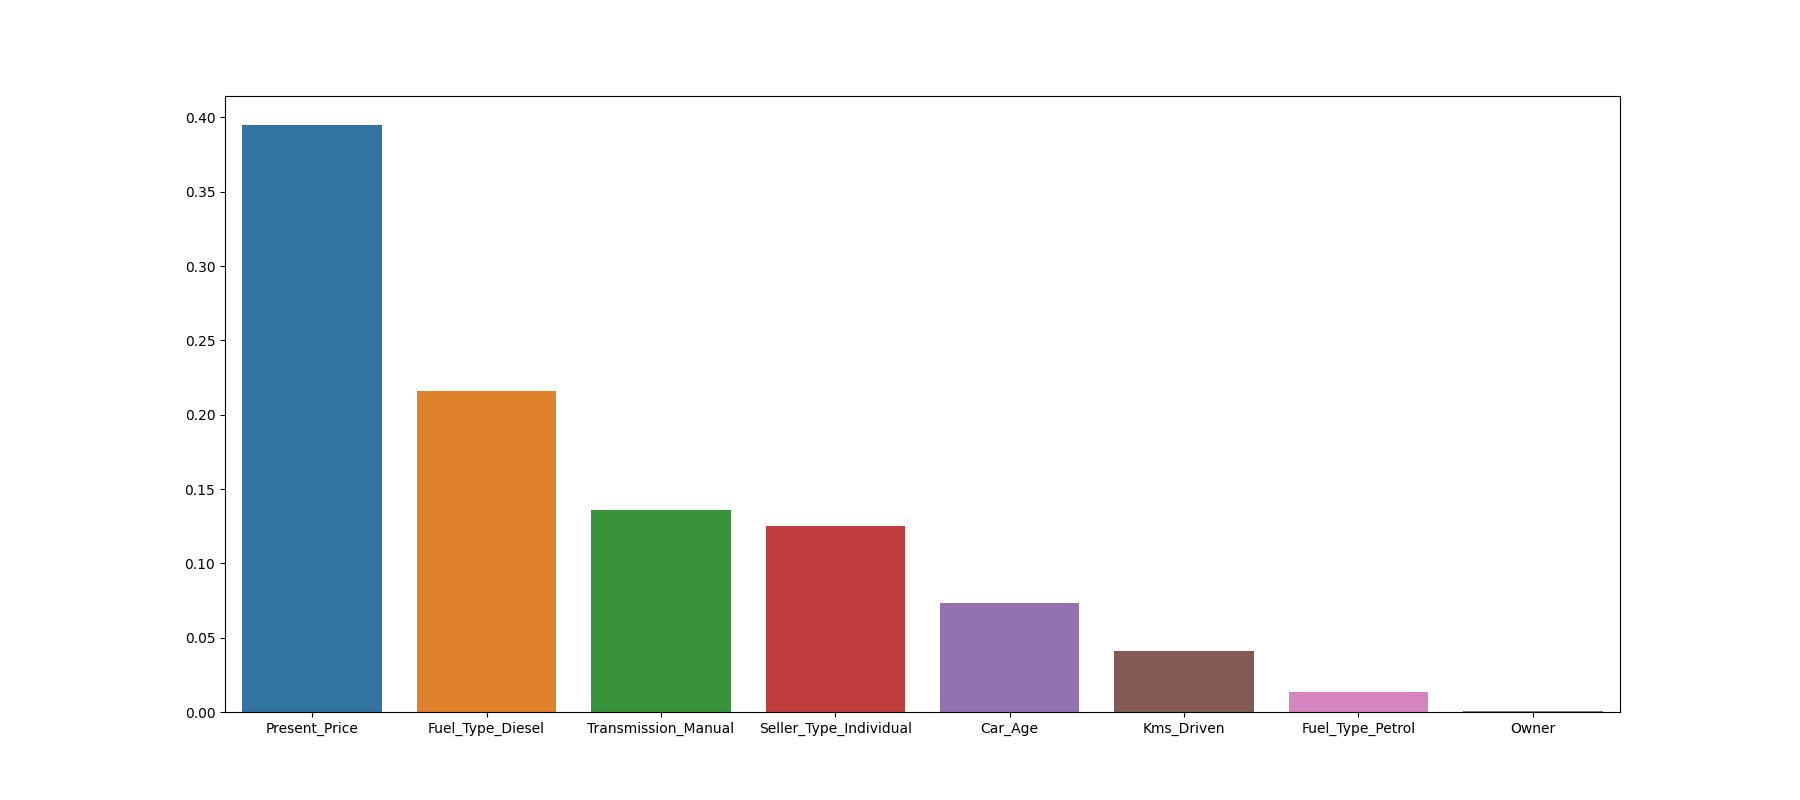
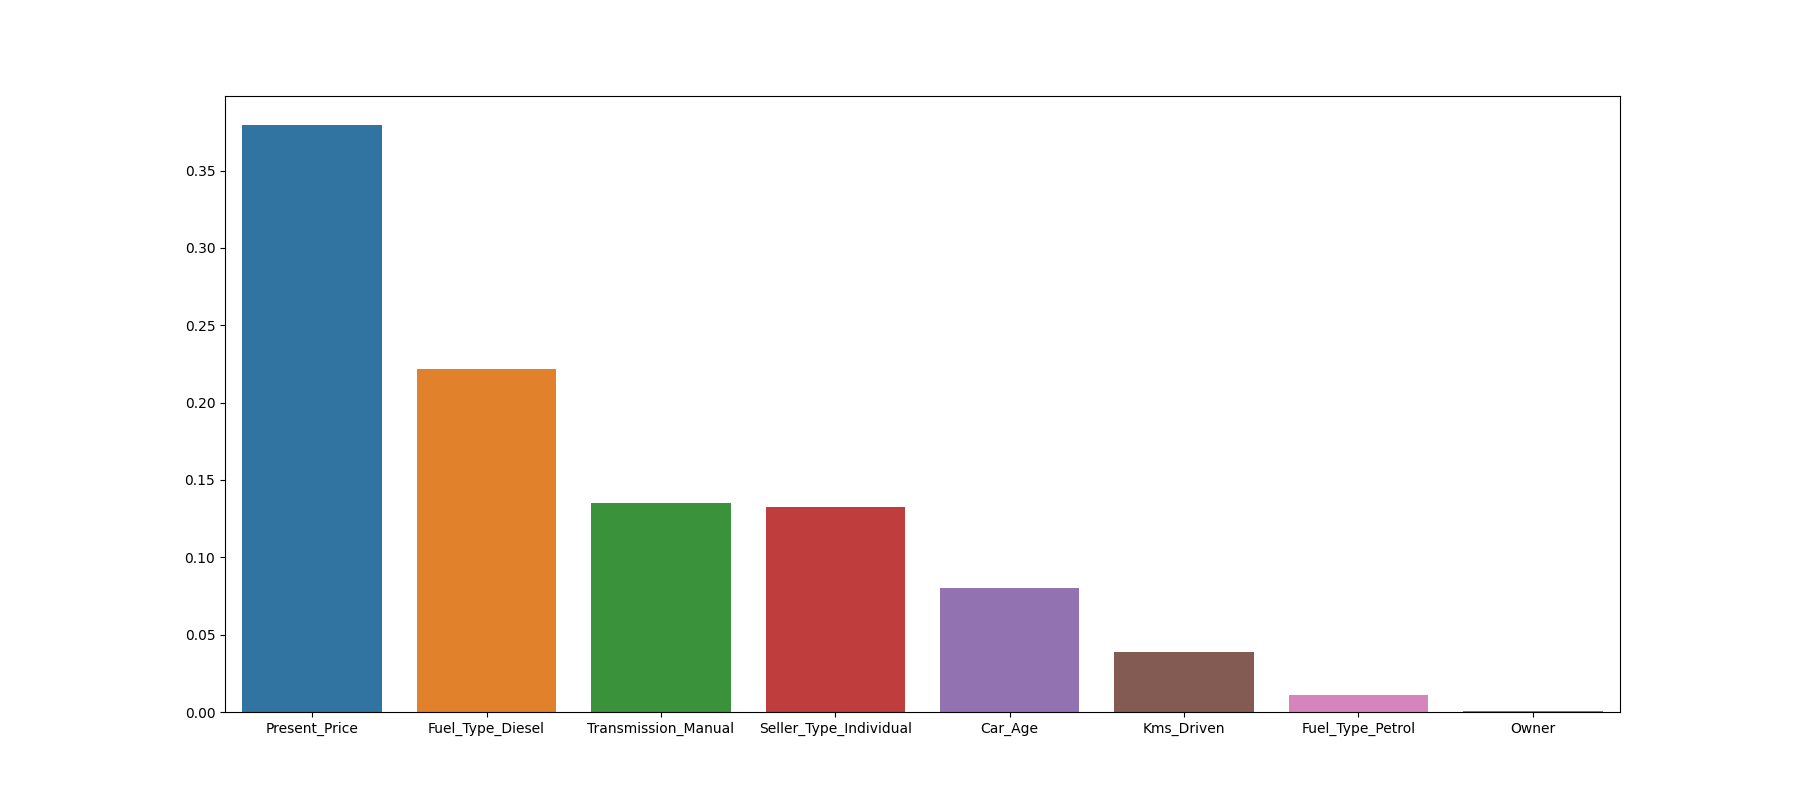
linear fit and r2 error

diff --git a/sample/machine_learning.py b/sample/machine_learning.py
@@ -1,4 +1,6 @@
 from sklearn.model_selection import train_test_split
+from sklearn.linear_model import LinearRegression
+from sklearn.metrics import r2_score
 
 
 def split_test_and_train(x, y):
@@ -7,3 +9,12 @@ def split_test_and_train(x, y):
 
     return {"X_train": X_train, "X_test": X_test,
             "y_train": y_train, "y_test": y_test}
+
+
+def linear_fit(model_sets):
+    reg = LinearRegression()
+    reg.fit(model_sets['X_train'], model_sets['y_train'])
+    y_pred = reg.predict(model_sets['X_test'])
+
+    rsqrd = r2_score(model_sets['y_test'], y_pred)
+    print(f'R2 Error: {rsqrd}')

diff --git a/main.py b/main.py
@@ -1,5 +1,5 @@
 from sample.dataset import load_transformed_car_data, plot_feature_importance
-from sample.machine_learning import split_test_and_train
+from sample.machine_learning import split_test_and_train, linear_fit
 
 
 def main():
@@ -11,6 +11,8 @@ def main():
     plot_feature_importance(X, y)
 
     model_sets = split_test_and_train(X, y)
+
+    linear_fit(model_sets)
 
 
 if __name__ == "__main__":

diff --git a/sample/dataset.py b/sample/dataset.py
@@ -60,7 +60,7 @@ def plot_feature_importance(x, y):
     plt.figure(figsize=(18, 8))
 
     sorted_features = sort_features(
-        model.feature_importances_, y.columns)
+        model.feature_importances_, x.columns)
 
     sns.barplot(x=sorted_features, y=sorted(
         model.feature_importances_, reverse=True))
